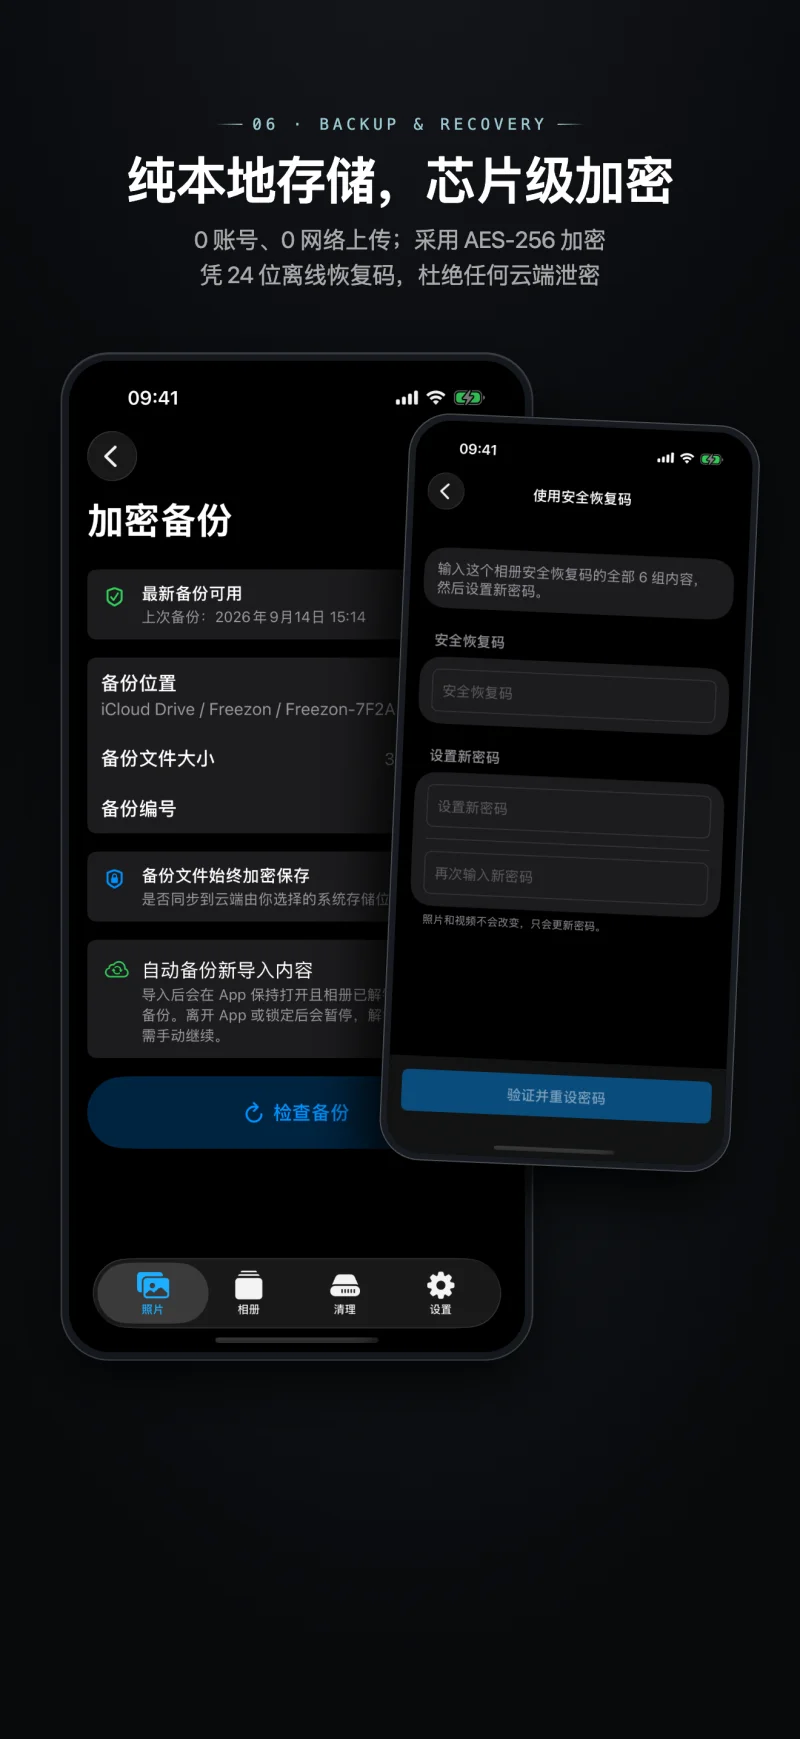
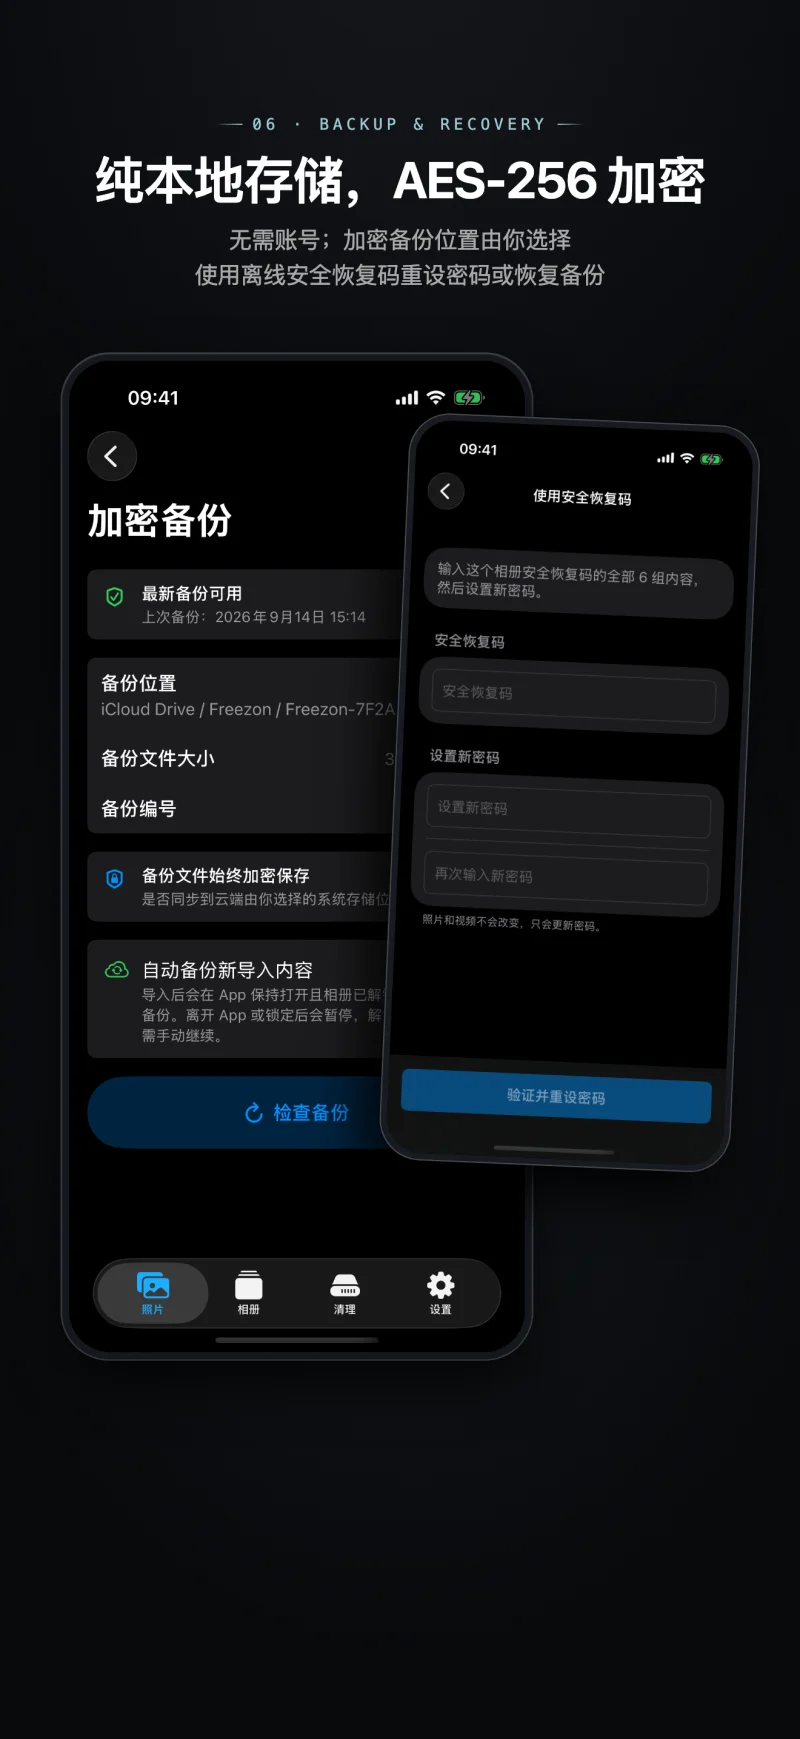
feat: sync updated 06 poster and copy with AES-256 and recovery code

Changed region(s): [[0.125, 0.0932, 0.875, 0.1863]]

diff --git a/assets/site.js b/assets/site.js
@@ -232,7 +232,7 @@
         ["03_lossless_media", ["原始画质，信息完整", "原始畫質，資訊完整", "Lossless Media, Full Details", "オリジナルのまま、完全保存"]],
         ["04_cross_vault_migration", ["相册互移，独立安全", "相簿互移，獨立安全", "Cross-Vault Migration", "アルバム間の安全な移動"]],
         ["05_safe_cleanup", ["原片安全清理，绝不误删", "原始檔安全清理，絕不誤刪", "Safe Cleanup, Keep in Control", "安全な整理、誤削除なし"]],
-        ["06_encrypted_backup", ["纯本地存储，芯片级加密", "純本機儲存，晶片級加密", "Encrypted Backup, On Device", "端末内暗号化、安全な復元"]]
+        ["06_encrypted_backup", ["纯本地存储，AES-256 加密", "純本機儲存，AES-256 加密", "Local Storage, AES-256 Encryption", "ローカル保存、AES-256暗号化"]]
       ];
       gallery.replaceChildren();
       const currentLang = initialLanguage();
